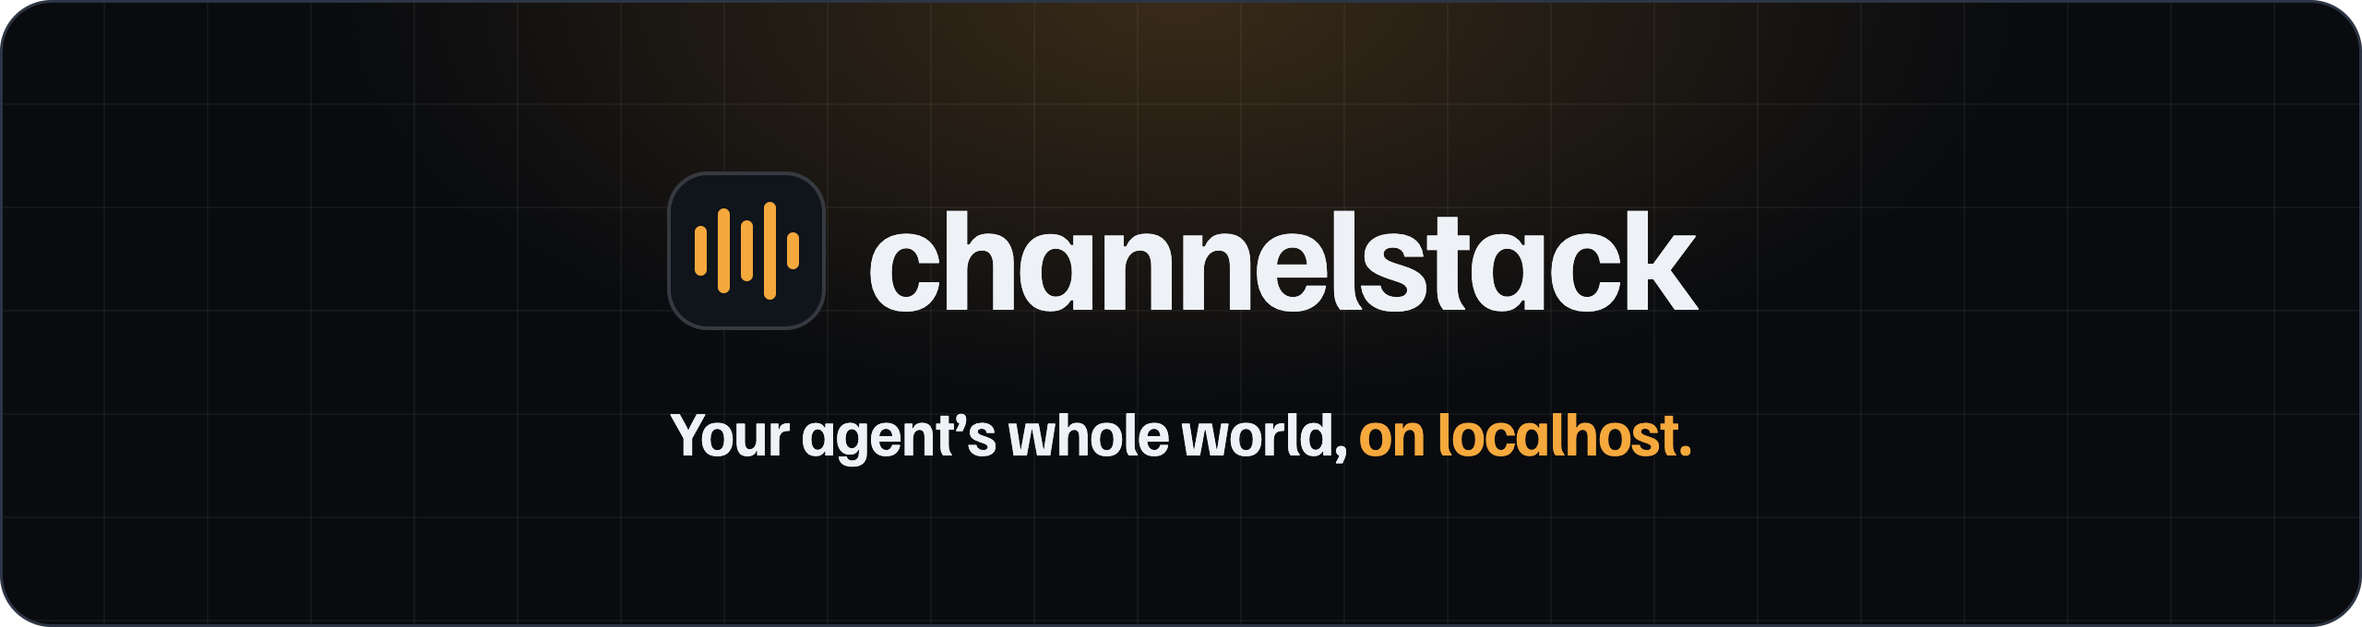
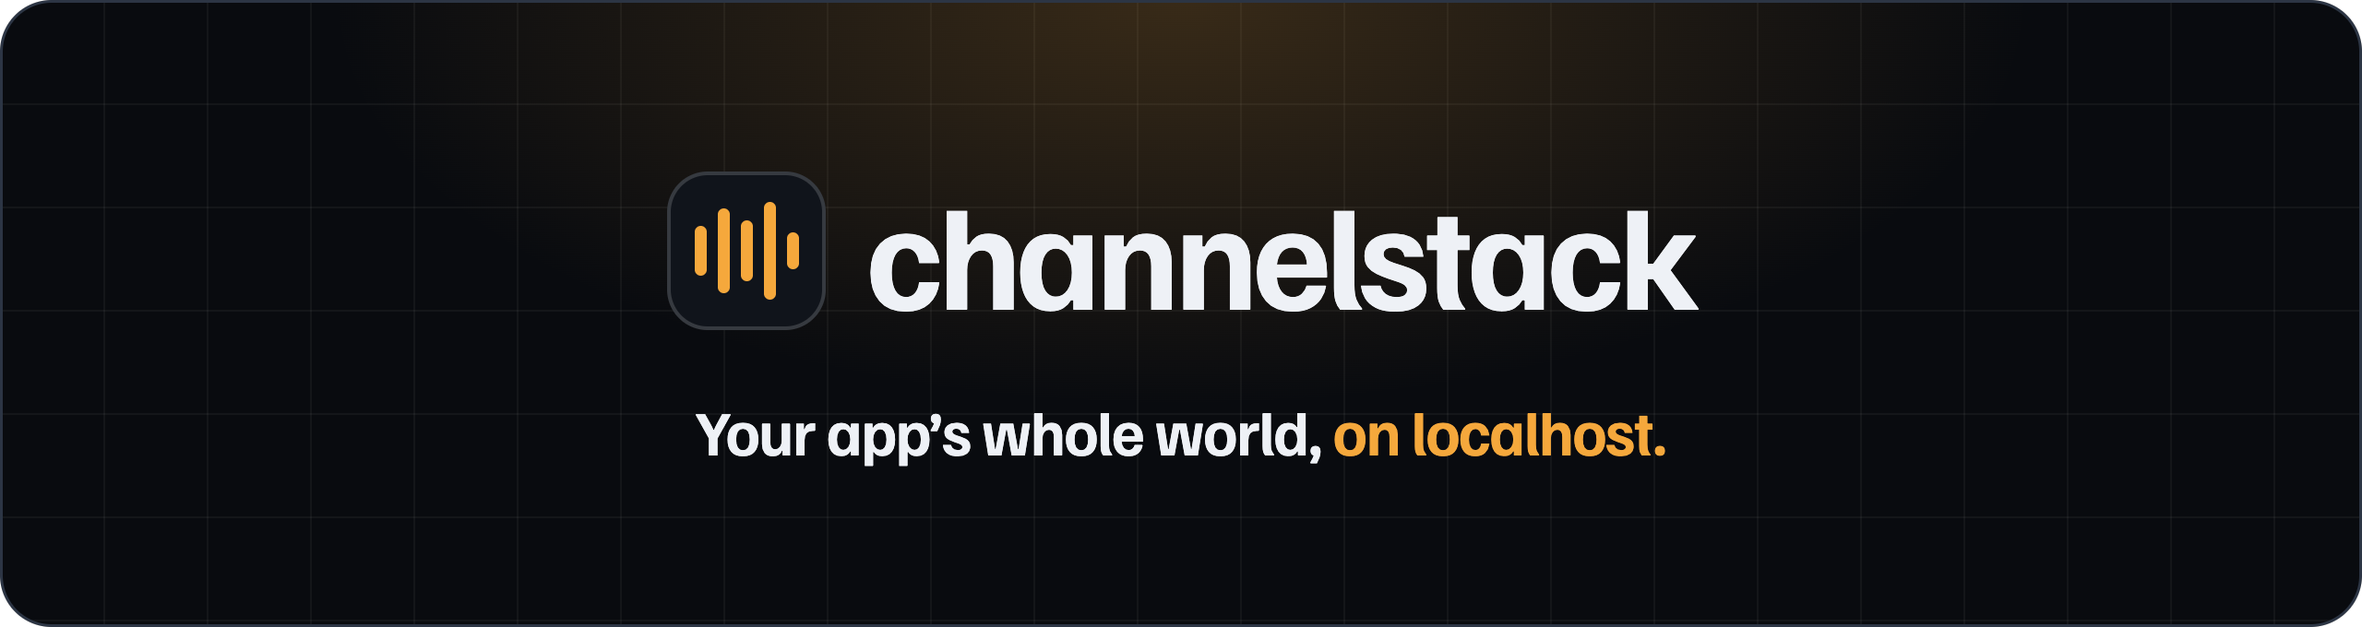
Website: the landing page speaks to everyone building on Slack, GitHub, Linear and Notion

Changed region(s): [[0.2812, 0.6485, 0.7188, 0.7412]]

diff --git a/index.html b/index.html
@@ -240,9 +240,9 @@ footer a:hover { color: var(--ink); }
 
 <main id="top">
   <div class="wrap hero">
-    <span class="eyebrow"><span class="rec" aria-hidden="true"></span>Test harness for agents that live in chat</span>
-    <h1>Your agent’s whole world, <em>on localhost.</em></h1>
-    <p class="lede">channelstack recreates <strong>Slack, GitHub, Linear and Notion</strong> on your machine. Script the people, let your agent answer through its real code path, and assert on the conversation a person would see. Signed webhooks, real payload shapes and real ids, with no changes to how your agent works.</p>
+    <span class="eyebrow"><span class="rec" aria-hidden="true"></span>Test harness for Slack, GitHub, Linear and Notion apps</span>
+    <h1>Your app’s whole world, <em>on localhost.</em></h1>
+    <p class="lede">channelstack recreates <strong>Slack, GitHub, Linear and Notion</strong> on your machine, for the bots, integrations and AI agents you build on them. Script the people, let your app answer through its real code path, and assert on what a person would see. Signed webhooks, real payload shapes and real ids, with no changes to how your app works.</p>
     <div class="cta">
       <a class="btn primary" href="#guide">Get started</a>
       <a class="btn" href="#why">Why channelstack?</a>
@@ -280,13 +280,13 @@ footer a:hover { color: var(--ink); }
     <div class="wrap">
       <div class="sec-head">
         <span class="kicker">Four platforms, one API</span>
-        <h2>Everywhere your agent gets a message.</h2>
-        <p>One package fakes all four, with the people, events and API calls agents actually use. Use one in a test, or several when your agent spans them. Discord, Stripe and email come next.</p>
+        <h2>Everywhere your app gets an event.</h2>
+        <p>One package fakes all four, with the people, events and API calls apps actually use. Use one in a test, or several when your app spans them. Discord, Stripe and email come next.</p>
       </div>
       <div class="platforms">
-        <div class="pf"><div class="pf-top"><h3>Slack</h3><span class="pkg">{ slack }</span></div><p>DMs, mentions, threads and the agent view, with progress streams rendered the way people see them.</p><ul><li>Events API</li><li>block_actions</li><li>chat.startStream</li><li>assistant.threads</li><li>agent_session_stopped</li></ul></div>
+        <div class="pf"><div class="pf-top"><h3>Slack</h3><span class="pkg">{ slack }</span></div><p>DMs, mentions, threads, buttons and the agent view, with progress streams rendered the way people see them.</p><ul><li>Events API</li><li>block_actions</li><li>chat.startStream</li><li>assistant.threads</li><li>agent_session_stopped</li></ul></div>
         <div class="pf"><div class="pf-top"><h3>GitHub</h3><span class="pkg">{ github }</span></div><p>Apps with installations, signed deliveries with real GUIDs, and redelivery for dedupe tests.</p><ul><li>App manifests</li><li>issue_comment</li><li>pull_request</li><li>check_run</li><li>redeliver</li></ul></div>
-        <div class="pf"><div class="pf-top"><h3>Linear</h3><span class="pkg">{ linear }</span></div><p>Agent sessions end to end: delegation, prompts, questions, activities and the Stop signal.</p><ul><li>delegation</li><li>AgentSessionEvent</li><li>agentActivityCreate</li><li>stop signal</li></ul></div>
+        <div class="pf"><div class="pf-top"><h3>Linear</h3><span class="pkg">{ linear }</span></div><p>Issues, comments and their webhooks, and agent sessions end to end: delegation, prompts, activities and Stop.</p><ul><li>delegation</li><li>AgentSessionEvent</li><li>agentActivityCreate</li><li>stop signal</li></ul></div>
         <div class="pf"><div class="pf-top"><h3>Notion</h3><span class="pkg">{ notion }</span></div><p>Pages, databases and comments, with webhooks when someone mentions your integration.</p><ul><li>page webhooks</li><li>comments</li><li>database queries</li><li>blocks</li></ul></div>
       </div>
     </div>
@@ -296,17 +296,17 @@ footer a:hover { color: var(--ink); }
     <div class="wrap">
       <div class="sec-head">
         <span class="kicker">Why channelstack</span>
-        <h2>Mocks test your mock. channelstack tests your agent.</h2>
-        <p>Chat agents break in the gaps between systems: a webhook signed the wrong way, a payload shape that changed last month, a stray progress message nobody asserted on. channelstack closes those gaps.</p>
+        <h2>Mocks test your mock. channelstack tests your app.</h2>
+        <p>Integrations break in the gaps between systems: a webhook signed the wrong way, a payload shape that changed last month, a stray progress message nobody asserted on. channelstack closes those gaps.</p>
       </div>
       <div class="principles">
-        <div class="pr"><div class="ico" aria-hidden="true"><svg width="22" height="22" viewBox="0 0 24 24" fill="none" stroke="currentColor" stroke-width="1.8"><path d="M4 12h16M14 6l6 6-6 6"/></svg></div><div><h3>Your agent’s real code path</h3><p><code>channelstack env</code> points your agent’s own SDKs at <code>slack.localhost</code>, <code>github.localhost</code> and friends. Agents with hard-coded hosts use proxy mode instead: set <code>HTTPS_PROXY</code> and trust a CA that only that agent sees.</p></div></div>
+        <div class="pr"><div class="ico" aria-hidden="true"><svg width="22" height="22" viewBox="0 0 24 24" fill="none" stroke="currentColor" stroke-width="1.8"><path d="M4 12h16M14 6l6 6-6 6"/></svg></div><div><h3>Your app’s real code path</h3><p><code>channelstack env</code> points your app’s own SDKs at <code>slack.localhost</code>, <code>github.localhost</code> and friends. Apps with hard-coded hosts use proxy mode instead: set <code>HTTPS_PROXY</code> and trust a CA that only that app sees.</p></div></div>
         <div class="pr"><div class="ico" aria-hidden="true"><svg width="22" height="22" viewBox="0 0 24 24" fill="none" stroke="currentColor" stroke-width="1.8"><path d="M5 12l4 4L19 6"/></svg></div><div><h3>Shapes that can’t drift</h3><p>Every response and webhook is checked against the providers’ own schemas: OpenAPI descriptions, GraphQL introspection and recorded traffic. When a platform changes, your build goes red instead of quietly wrong.</p></div></div>
         <div class="pr"><div class="ico" aria-hidden="true"><svg width="22" height="22" viewBox="0 0 24 24" fill="none" stroke="currentColor" stroke-width="1.8"><circle cx="12" cy="8" r="3.5"/><path d="M5 20c1.2-3.6 4-5 7-5s5.8 1.4 7 5"/></svg></div><div><h3>People, not payloads</h3><p>Write <code>ana.click("Approve", { message })</code> instead of hand-building a <code>block_actions</code> body. People post, reply, review, delegate and press Stop, with correct signatures, retries and delivery IDs.</p></div></div>
         <div class="pr"><div class="ico" aria-hidden="true"><svg width="22" height="22" viewBox="0 0 24 24" fill="none" stroke="currentColor" stroke-width="1.8"><rect x="3" y="4" width="18" height="14" rx="2"/><path d="M7 9h10M7 13h6"/></svg></div><div><h3>Assert what people see</h3><p>Streams, status lines, edits and ephemeral messages render into one transcript. <code>toHaveRepliesFrom(…, { count: 1 })</code> catches the double post. <code>not.toContainText</code> catches the leftover “Thinking…” reply.</p></div></div>
       </div>
 
-      <div class="diagram" role="img" aria-label="Signal path: channelstack sends signed webhooks to your agent, and your agent's API calls to platform hosts go through channelstack's proxy back into the same fake workspace.">
+      <div class="diagram" role="img" aria-label="Signal path: channelstack sends signed webhooks to your app, and your app's API calls to platform hosts go through channelstack's proxy back into the same fake workspace.">
         <svg viewBox="0 0 1000 250" xmlns="http://www.w3.org/2000/svg">
           <defs>
             <marker id="ah" viewBox="0 0 10 10" refX="9" refY="5" markerWidth="7" markerHeight="7" orient="auto-start-reverse"><path d="M0 0L10 5L0 10z" class="head"/></marker>
@@ -329,7 +329,7 @@ footer a:hover { color: var(--ink); }
           <text x="415" y="214" class="lbl">linear.localhost · notion.localhost</text>
 
           <rect x="770" y="40" width="210" height="170" rx="10" class="box"/>
-          <text x="790" y="72" class="ttl">Your agent</text>
+          <text x="790" y="72" class="ttl">Your app</text>
           <text x="790" y="104">unchanged code</text>
           <text x="790" y="128">real SDKs</text>
           <text x="790" y="152">its own config</text>
@@ -396,8 +396,8 @@ footer a:hover { color: var(--ink); }
         <table>
           <thead><tr><th scope="col"></th><th scope="col">Hand-written mocks</th><th scope="col">API emulators</th><th scope="col">Real sandbox workspace</th><th scope="col" class="us">channelstack</th></tr></thead>
           <tbody>
-            <tr><th scope="row">Agent code unchanged</th><td class="n">No</td><td class="p">Base URL overrides</td><td class="y">Yes</td><td class="us y">Yes: a base URL, or a proxy</td></tr>
-            <tr><th scope="row">Platform calls your agent</th><td class="n">No</td><td class="p">Some webhooks</td><td class="y">Yes</td><td class="us y">Signed, retried, replayable</td></tr>
+            <tr><th scope="row">Your code unchanged</th><td class="n">No</td><td class="p">Base URL overrides</td><td class="y">Yes</td><td class="us y">Yes: a base URL, or a proxy</td></tr>
+            <tr><th scope="row">Platform calls your app</th><td class="n">No</td><td class="p">Some webhooks</td><td class="y">Yes</td><td class="us y">Signed, retried, replayable</td></tr>
             <tr><th scope="row">Scripted people</th><td class="n">No</td><td class="n">No</td><td class="p">Manual or second bot</td><td class="us y">Built in</td></tr>
             <tr><th scope="row">Payload shapes checked</th><td class="n">No</td><td class="n">No</td><td class="y">They’re real</td><td class="us y">Against provider schemas</td></tr>
             <tr><th scope="row">Assert on what people see</th><td class="n">No</td><td class="n">Raw state</td><td class="p">Screenshots</td><td class="us y">Rendered transcript</td></tr>
@@ -417,10 +417,10 @@ footer a:hover { color: var(--ink); }
       </div>
       <div class="steps">
         <div class="step"><span class="n2">STEP 1</span><h3>Install</h3><p>One package: the server, the CLI, the UI and the test integrations.</p><div class="mini">npm i -D channelstack</div></div>
-        <div class="step"><span class="n2">STEP 2</span><h3>Point your agent at it</h3><p>Each fake comes with an app named <code>my-agent</code>. Tell channelstack where your agent takes events, then start the agent the way you always do, with channelstack’s environment.</p><div class="mini">$ CHANNELSTACK_SLACK_WEBHOOK_URL=https://my-agent.localhost/slack/events npx channelstack &amp;
+        <div class="step"><span class="n2">STEP 2</span><h3>Point your app at it</h3><p>Each fake comes with an app named <code>my-agent</code>. Tell channelstack where your app takes events, then start the app the way you always do, with channelstack’s environment.</p><div class="mini">$ CHANNELSTACK_SLACK_WEBHOOK_URL=https://my-agent.localhost/slack/events npx channelstack &amp;
 $ npx channelstack env &gt;&gt; .env.local
 $ portless run my-agent pnpm dev</div></div>
-        <div class="step"><span class="n2">STEP 3</span><h3>Run</h3><p>Add the plugin and run your tests as usual. A failure says what a person sees, and what the agent left open.</p><div class="mini">// vitest.config.ts
+        <div class="step"><span class="n2">STEP 3</span><h3>Run</h3><p>Add the plugin and run your tests as usual. A failure says what a person sees, and what the app left open.</p><div class="mini">// vitest.config.ts
 plugins: [channelstack()]
 
 $ npx vitest
@@ -435,7 +435,7 @@ $ npx vitest
         <h2>Test the conversation before your users have it.</h2>
         <div class="cta"><a class="btn primary" href="#guide">Read the guide</a><a class="btn" href="#github">Star on GitHub</a></div>
       </div>
-      <p class="why-name"><strong>Why “channelstack”?</strong> Your agent lives in a stack of channels: Slack, GitHub, Linear, Notion. channelstack runs that whole stack on localhost, with the people in it, so you can test the conversation end to end before your users have it.</p>
+      <p class="why-name"><strong>Why “channelstack”?</strong> Your app lives in a stack of channels: Slack, GitHub, Linear, Notion. channelstack runs that whole stack on localhost, with the people in it, so you can test the conversation end to end before your users have it.</p>
     </div>
     <div class="wrap"><canvas class="wave" id="wave" aria-hidden="true"></canvas></div>
   </div>

diff --git a/website/src/pages/Home.tsx b/website/src/pages/Home.tsx
@@ -29,7 +29,7 @@ const CHANNELS = [
   {
     id: "slack",
     name: "Slack",
-    text: "DMs, mentions, threads and the agent view, with progress streams rendered the way people see them.",
+    text: "DMs, mentions, threads, buttons and the agent view, with progress streams rendered the way people see them.",
     chips: ["Events API", "block_actions", "chat.startStream", "assistant.threads", "agent_session_stopped"],
   },
   {
@@ -41,7 +41,7 @@ const CHANNELS = [
   {
     id: "linear",
     name: "Linear",
-    text: "Agent sessions end to end: delegation, prompts, questions, activities and the Stop signal.",
+    text: "Issues, comments and their webhooks, and agent sessions end to end: delegation, prompts, activities and Stop.",
     chips: ["delegation", "AgentSessionEvent", "agentActivityCreate", "stop signal"],
   },
   {
@@ -55,12 +55,12 @@ const CHANNELS = [
 const PRINCIPLES: Array<{ icon: ReactNode; title: string; body: ReactNode }> = [
   {
     icon: <Route size={22} />,
-    title: "Your agent’s real code path",
+    title: "Your app’s real code path",
     body: (
       <>
-        <code>channelstack env</code> points your agent’s own SDKs at <code>slack.localhost</code>,{" "}
-        <code>github.localhost</code> and friends. Agents with hard-coded hosts use proxy mode instead: set{" "}
-        <code>HTTPS_PROXY</code> and trust a CA that only that agent sees.
+        <code>channelstack env</code> points your app’s own SDKs at <code>slack.localhost</code>,{" "}
+        <code>github.localhost</code> and friends. Apps with hard-coded hosts use proxy mode instead: set{" "}
+        <code>HTTPS_PROXY</code> and trust a CA that only that app sees.
       </>
     ),
   },
@@ -100,14 +100,14 @@ const PRINCIPLES: Array<{ icon: ReactNode; title: string; body: ReactNode }> = [
 type Cell = [tone: "y" | "n" | "p", text: string];
 const COMPARE: Array<[string, Cell, Cell, Cell, Cell]> = [
   [
-    "Agent code unchanged",
+    "Your code unchanged",
     ["n", "No"],
     ["p", "Base URL overrides"],
     ["y", "Yes"],
     ["y", "Yes: a base URL, or a proxy"],
   ],
   [
-    "Platform calls your agent",
+    "Platform calls your app",
     ["n", "No"],
     ["p", "Some webhooks"],
     ["y", "Yes"],
@@ -137,15 +137,16 @@ export default function Home() {
             <HeroWaves />
             <p className="eyebrow">
               <span className="rec" aria-hidden="true" />
-              Test harness for agents that live in chat
+              Test harness for Slack, GitHub, Linear and Notion apps
             </p>
             <h1 id="hero-title">
-              Your agent’s whole world, <em>on localhost.</em>
+              Your app’s whole world, <em>on localhost.</em>
             </h1>
             <p className="lede">
-              channelstack recreates <strong>Slack, GitHub, Linear and Notion</strong> on your machine. Script the
-              people, let your agent answer through its real code path, and assert on the conversation a person would
-              see. Signed webhooks, real payload shapes and real ids, with no changes to how your agent works.
+              channelstack recreates <strong>Slack, GitHub, Linear and Notion</strong> on your machine, for the bots,
+              integrations and AI agents you build on them. Script the people, let your app answer through its real
+              code path, and assert on what a person would see. Signed webhooks, real payload shapes and real ids, with
+              no changes to how your app works.
             </p>
             <div className="cta">
               <a className="btn primary" href="#quick-start">
@@ -172,10 +173,10 @@ export default function Home() {
           <div className="wrap">
             <div className="sec-head">
               <p className="kicker">Four platforms, one API</p>
-              <h2 id="channels-title">Everywhere your agent gets a message.</h2>
+              <h2 id="channels-title">Everywhere your app gets an event.</h2>
               <p className="sec-lede">
-                One package fakes all four, with the people, events and API calls agents actually use. Use one in a
-                test, or several when your agent spans them. Discord, Stripe and email come next.
+                One package fakes all four, with the people, events and API calls apps actually use. Use one in a
+                test, or several when your app spans them. Discord, Stripe and email come next.
               </p>
             </div>
             <div className="channels" ref={channels}>
@@ -227,9 +228,9 @@ export default function Home() {
           <div className="wrap">
             <div className="sec-head">
               <p className="kicker">Why channelstack</p>
-              <h2 id="why-title">Mocks test your mock. channelstack tests your agent.</h2>
+              <h2 id="why-title">Mocks test your mock. channelstack tests your app.</h2>
               <p className="sec-lede">
-                Chat agents break in the gaps between systems: a webhook signed the wrong way, a payload shape that
+                Integrations break in the gaps between systems: a webhook signed the wrong way, a payload shape that
                 changed last month, a stray progress message nobody asserted on. channelstack closes those gaps.
               </p>
             </div>
@@ -253,9 +254,9 @@ export default function Home() {
           <div className="wrap">
             <div className="sec-head">
               <p className="kicker">How it works</p>
-              <h2 id="how-title">One server between your test and your agent.</h2>
+              <h2 id="how-title">One server between your test and your app.</h2>
               <p className="sec-lede">
-                Your test scripts the people. channelstack delivers what the platform would deliver, and your agent
+                Your test scripts the people. channelstack delivers what the platform would deliver, and your app
                 answers with its real SDKs, into the same fake workspace your test reads back.
               </p>
             </div>
@@ -322,14 +323,14 @@ export default function Home() {
               </li>
               <li className="step reveal">
                 <p className="step-n">Step 2</p>
-                <h3>Point your agent at it</h3>
+                <h3>Point your app at it</h3>
                 <p>
-                  Start channelstack with where your agent takes events, then start the agent the way you always do,
+                  Start channelstack with where your app takes events, then start the app the way you always do,
                   with channelstack’s environment.
                 </p>
                 <div className="snippet">
                   <Terminal
-                    label="Commands to start channelstack and your agent"
+                    label="Commands to start channelstack and your app"
                     lines={[
                       "$ CHANNELSTACK_SLACK_WEBHOOK_URL=http://localhost:3000/slack/events npx channelstack",
                       "$ npx channelstack env >> .env.local",
@@ -342,7 +343,7 @@ export default function Home() {
                 <p className="step-n">Step 3</p>
                 <h3>Run</h3>
                 <p>
-                  Add the plugin and run your tests as usual. A failure says what a person sees, and what the agent left
+                  Add the plugin and run your tests as usual. A failure says what a person sees, and what the app left
                   open.
                 </p>
                 <div className="snippet">
@@ -370,7 +371,7 @@ export default function Home() {
               </div>
             </div>
             <p className="why-name">
-              <strong>Why “channelstack”?</strong> Your agent lives in a stack of channels: Slack, GitHub, Linear,
+              <strong>Why “channelstack”?</strong> Your app lives in a stack of channels: Slack, GitHub, Linear,
               Notion. channelstack runs that whole stack on localhost, with the people in it, so you can test the
               conversation end to end before your users have it.
             </p>

diff --git a/website/src/components/Flow.tsx b/website/src/components/Flow.tsx
@@ -1,6 +1,6 @@
 /**
  * How it works: the test scripts channelstack, channelstack sends signed webhooks to the
- * agent, and the agent's API calls come back to the same fake workspace. The moving dots
+ * app, and the app's API calls come back to the same fake workspace. The moving dots
  * are decoration; the text carries the meaning.
  */
 export function Flow() {
@@ -53,7 +53,7 @@ export function Flow() {
         </div>
 
         <div className="node">
-          <h3>Your agent</h3>
+          <h3>Your app</h3>
           <ul>
             <li>unchanged code</li>
             <li>real SDKs</li>
@@ -64,8 +64,8 @@ export function Flow() {
       </div>
       <figcaption>
         <span className="sr-only">
-          Your test scripts people and asserts through channelstack. channelstack sends signed webhooks to your agent,
-          and your agent’s API calls go back to channelstack’s fake platform APIs.{" "}
+          Your test scripts people and asserts through channelstack. channelstack sends signed webhooks to your app,
+          and your app’s API calls go back to channelstack’s fake platform APIs.{" "}
         </span>
         In proxy mode, requests to hosts channelstack doesn’t emulate pass through untouched.
       </figcaption>

diff --git a/website/src/lib/site.ts b/website/src/lib/site.ts
@@ -1,10 +1,10 @@
 export const SITE = {
   name: "channelstack",
   url: "https://channelstack.dev",
-  title: "channelstack: test your chat agent on localhost",
+  title: "channelstack: test your Slack, GitHub, Linear and Notion apps on localhost",
   /** Shown in search results and link previews; kept under 160 characters so it isn't cut off. */
   description:
-    "Test AI agents that live in Slack, GitHub, Linear and Notion. channelstack fakes the platforms on localhost: script the people, assert on what they'd see.",
+    "Test your Slack, GitHub, Linear and Notion apps and agents on localhost. channelstack fakes the platforms: script the people, assert on what they see.",
   repo: "https://github.com/christian-bromann/channelstack",
   install: "npm i -D channelstack",
 } as const;

diff --git a/website/og/og.html b/website/og/og.html
@@ -369,8 +369,8 @@
         ></span>
         channelstack
       </div>
-      <h1>Your agent’s<br />whole world,<br /><em>on localhost.</em></h1>
-      <p class="sub">Test AI agents in <b>Slack, GitHub,</b><br /><b>Linear</b> and <b>Notion</b>, on your machine</p>
+      <h1>Your app’s<br />whole world,<br /><em>on localhost.</em></h1>
+      <p class="sub">Test your <b>Slack, GitHub,</b><br /><b>Linear</b> and <b>Notion</b> apps, on your machine</p>
     </main>
 
     <div class="banner">
@@ -381,7 +381,7 @@
         ></span>
         channelstack
       </div>
-      <p>Your agent’s whole world, <em>on localhost.</em></p>
+      <p>Your app’s whole world, <em>on localhost.</em></p>
     </div>
 
     <div class="icon-mark">

diff --git a/website/src/components/Seo.tsx b/website/src/components/Seo.tsx
@@ -6,7 +6,7 @@ import ogImage from "../assets/og.png";
 import { SITE } from "../lib/site";
 
 const IMAGE_ALT =
-  "channelstack: your agent's whole world, on localhost. Test AI agents in Slack, GitHub, Linear and Notion.";
+  "channelstack: your app's whole world, on localhost. Test Slack, GitHub, Linear and Notion apps and agents on your machine.";
 
 /**
  * Title, description, canonical URL and link-preview tags for one page. `path` starts with "/".

diff --git a/website/src/components/Player.tsx b/website/src/components/Player.tsx
@@ -48,7 +48,7 @@ const EXAMPLES: Example[] = [
     ],
     notes: [
       <>
-        Delivers a signed <code>message.im</code> event to your agent
+        Delivers a signed <code>message.im</code> event to your app
       </>,
       <>
         Sends <code>block_actions</code> when Ana clicks Approve
